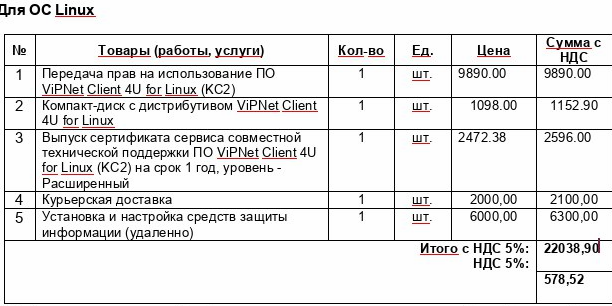
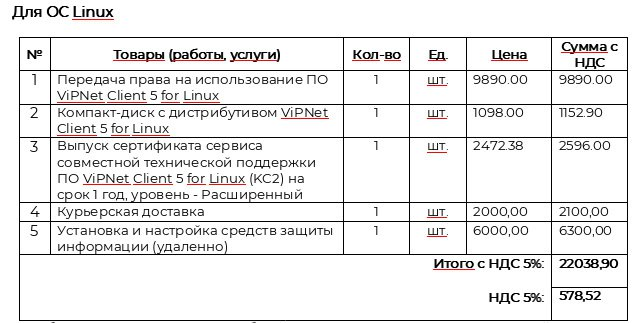
Update 2 files
- scenarii/vipnet-instrukciya-po-podklyucheniyu.md
   - scenarii/vipnet-instrukciya-po-podklyucheniyu-2.png

Changed region(s): [[0.0, 0.0, 1.0, 1.0]]

diff --git a/scenarii/vipnet-instrukciya-po-podklyucheniyu.md b/scenarii/vipnet-instrukciya-po-podklyucheniyu.md
@@ -41,7 +41,7 @@ title: "ViPNet: инструкция по подключению"
 
 Стоимость для ОС Linux
 
-![](./vipnet-instrukciya-po-podklyucheniyu-2.png){width=612px height=306px}
+![](./vipnet-instrukciya-po-podklyucheniyu-2.png){width=641px height=323px}
 
 *После получения ПО ViPNet Client необходимо получить и установить ключи шифрования для получения доступа к ЗСПД 15224. В случае оплаты услуг по установке ключи передаются и устанавливаются специалистом "Маск Сэйф" при установке ПО. В случае отказа услуг по установке ключи передаются компанией "Маск Сэйф" по электронной почте в виде зашифрованного архива. Пароль от архива можно будет узнать по телефону (3822) 900-110 назвав номер счёта, по которому куплено ПО. В этом случае установку ПО и ключей шифрования организация осуществляет самостоятельно.*
 
